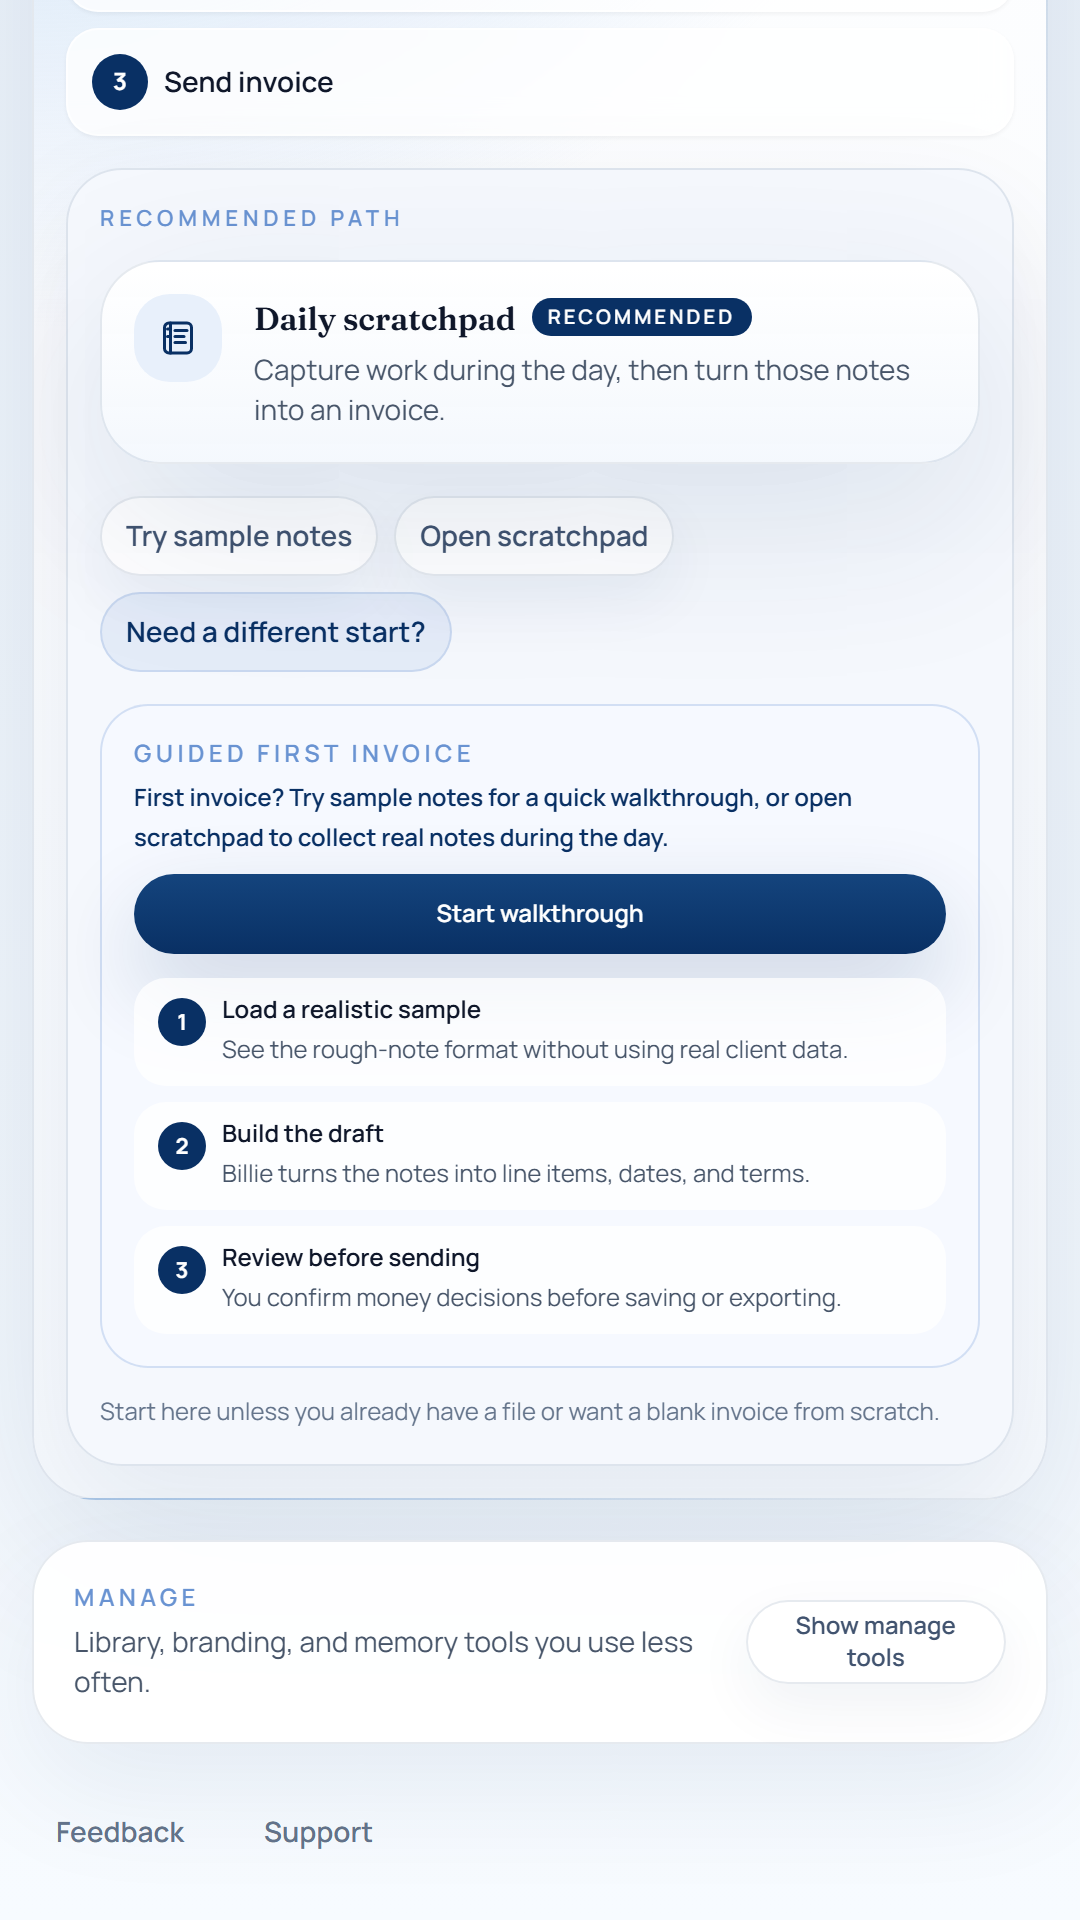
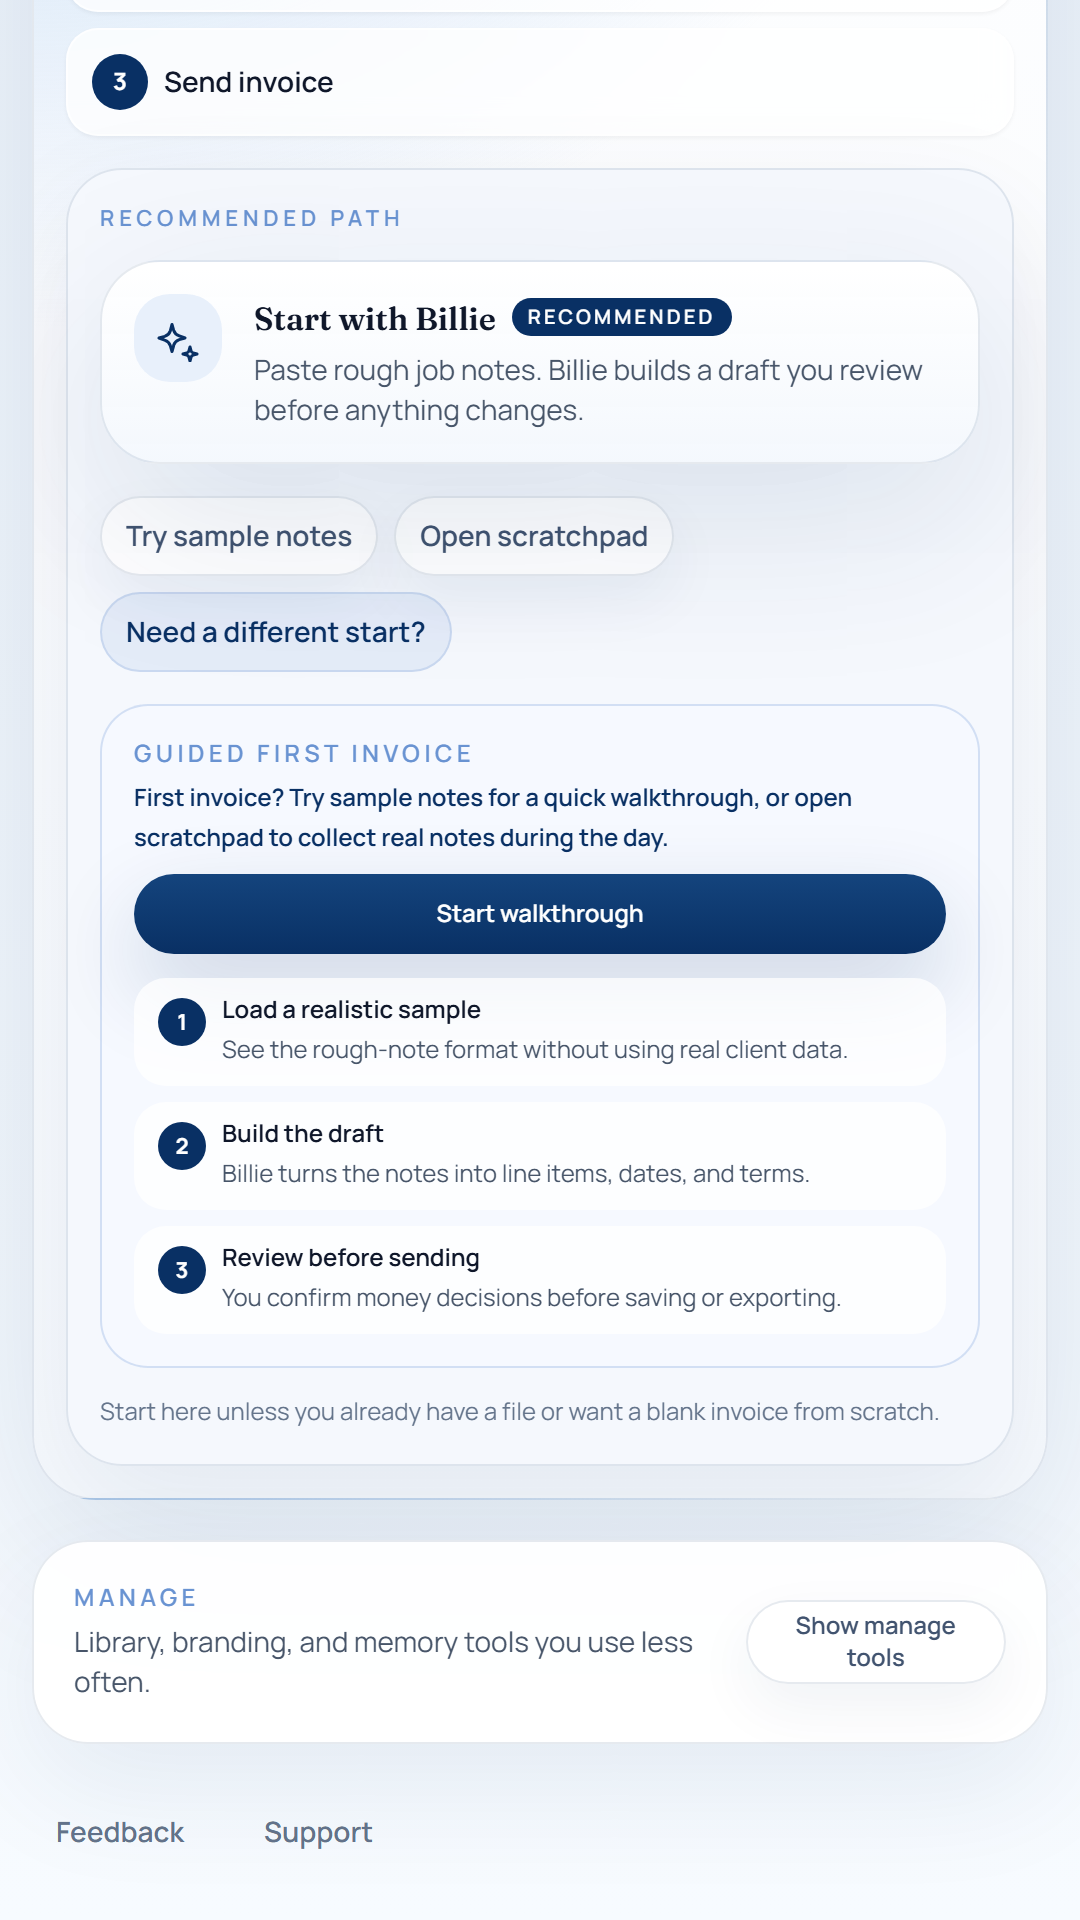
feat: prioritize Billie for first-run launch

Changed region(s): [[0.2444, 0.1562, 0.8556, 0.2188], [0.1528, 0.1562, 0.1833, 0.1875]]

diff --git a/public/launcher.jsx b/public/launcher.jsx
@@ -622,8 +622,8 @@ function Launcher() {
     }
     return operationsSummary?.hasInvoices
       ? options.find((option) => option.key === "ai") ?? options[0]
-      : options.find((option) => option.key === "scratchpad") ??
-        options.find((option) => option.key === "ai") ??
+      : options.find((option) => option.key === "ai") ??
+        options.find((option) => option.key === "scratchpad") ??
         options[0];
   })();
   const quickStartOptions = options.filter(

diff --git a/src/ui.test.ts b/src/ui.test.ts
@@ -452,6 +452,7 @@ test("launcher sample notes open intake with a realistic starter draft", async (
   const page = await context.newPage();
   try {
     await page.goto(`${baseUrl}/`, { waitUntil: "networkidle" });
+    await page.getByText("Start with Billie", { exact: true }).first().waitFor({ state: "visible" });
     await page.getByTestId("launcher-first-invoice-guide").getByText("Guided first invoice").waitFor({
       state: "visible"
     });
